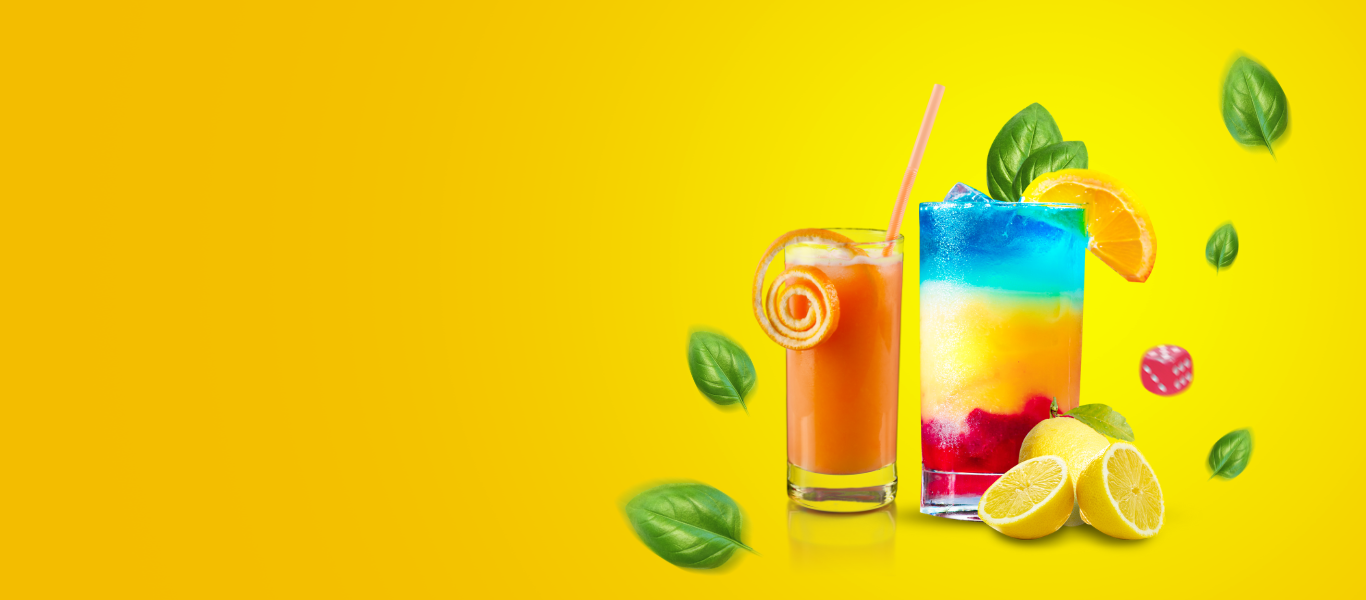
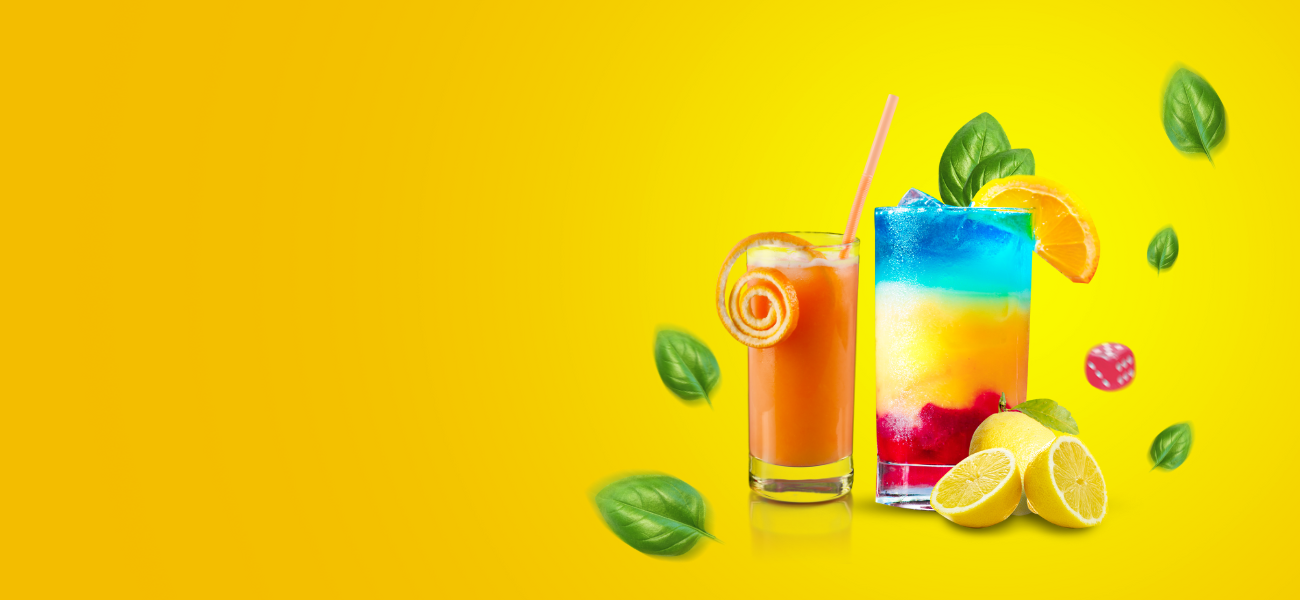
change background

diff --git a/index.html b/index.html
@@ -9,14 +9,48 @@
     <link rel="stylesheet" href="./style.css">
 </head>
 <body>
-    <section class="container-fluid d-flex position-relative align-items-center" id="main-cover">
-        <img src="./bg.png" alt="" class="img-fluid position-absolute">
-        <div class="img-text">
-            <span class="py-2 ms-1">Juice Shop</span>
-            <h1 class="py-2 text-white">August DM</h1>
-            <a href="#" class="btn mt-2">Order Now</a>
+    <!-- Navbar Start -->
+    <nav class="navbar navbar-expand-lg bg-body-tertiary">
+        <div class="container-fluid">
+          <a class="navbar-brand" href="#"><b>DM</b></a>
+          <button class="navbar-toggler" type="button" data-bs-toggle="collapse" data-bs-target="#navbarSupportedContent" aria-controls="navbarSupportedContent" aria-expanded="false" aria-label="Toggle navigation">
+            <span class="navbar-toggler-icon"></span>
+          </button>
+          <div class="collapse navbar-collapse" id="navbarSupportedContent">
+            <ul class="navbar-nav me-auto mb-2 mb-lg-0">
+              <li class="nav-item">
+                <a class="nav-link" aria-current="page" href="#">Home</a>
+              </li>
+              <li class="nav-item">
+                <a class="nav-link" href="#">Shop</a>
+              </li>
+              <li class="nav-item">
+                <a class="nav-link" aria-current="page" href="#">About</a>
+              </li>
+              <li class="nav-item">
+                <a class="nav-link" href="#">Contact</a>
+              </li>
+            </ul>
+            <form class="d-flex" role="search">
+              <button class="btn btn-outline-success" type="submit">Search</button>
+              <button class="btn btn-outline-success" type="submit">Search</button>
+              <button class="btn btn-outline-success" type="submit">Search</button>
+            </form>
+          </div>
         </div>
-    </section>
+      </nav>
+      <!-- Navbar End -->
+
+      <!-- Main Cover Start -->
+      <div class="container-fluid">
+         <div class="row">
+             <div class="col-lg">
+                <img src="./bg.png" alt="" class="img-fluid" style="width: 100%;">
+             </div>
+         </div>
+      </div>
+      <!-- Main Cover End -->
+    
 </body>
 <!-- Bootstrap JS -->
 <script src="https://cdn.jsdelivr.net/npm/bootstrap@5.3.0/dist/js/bootstrap.bundle.min.js" integrity="sha384-geWF76RCwLtnZ8qwWowPQNguL3RmwHVBC9FhGdlKrxdiJJigb/j/68SIy3Te4Bkz" crossorigin="anonymous"></script>

diff --git a/style.css b/style.css
@@ -1,16 +1,15 @@
-*{
+* {
     margin: 0;
     padding: 0;
     box-sizing: border-box;
 }
 
 /* Main Cover */
-.container-fluid {
-    width: 100%;
+.main {
     min-height: 450px;
 }
 
-.container-fluid img {
+.main img {
     z-index: -2;
 }
 
